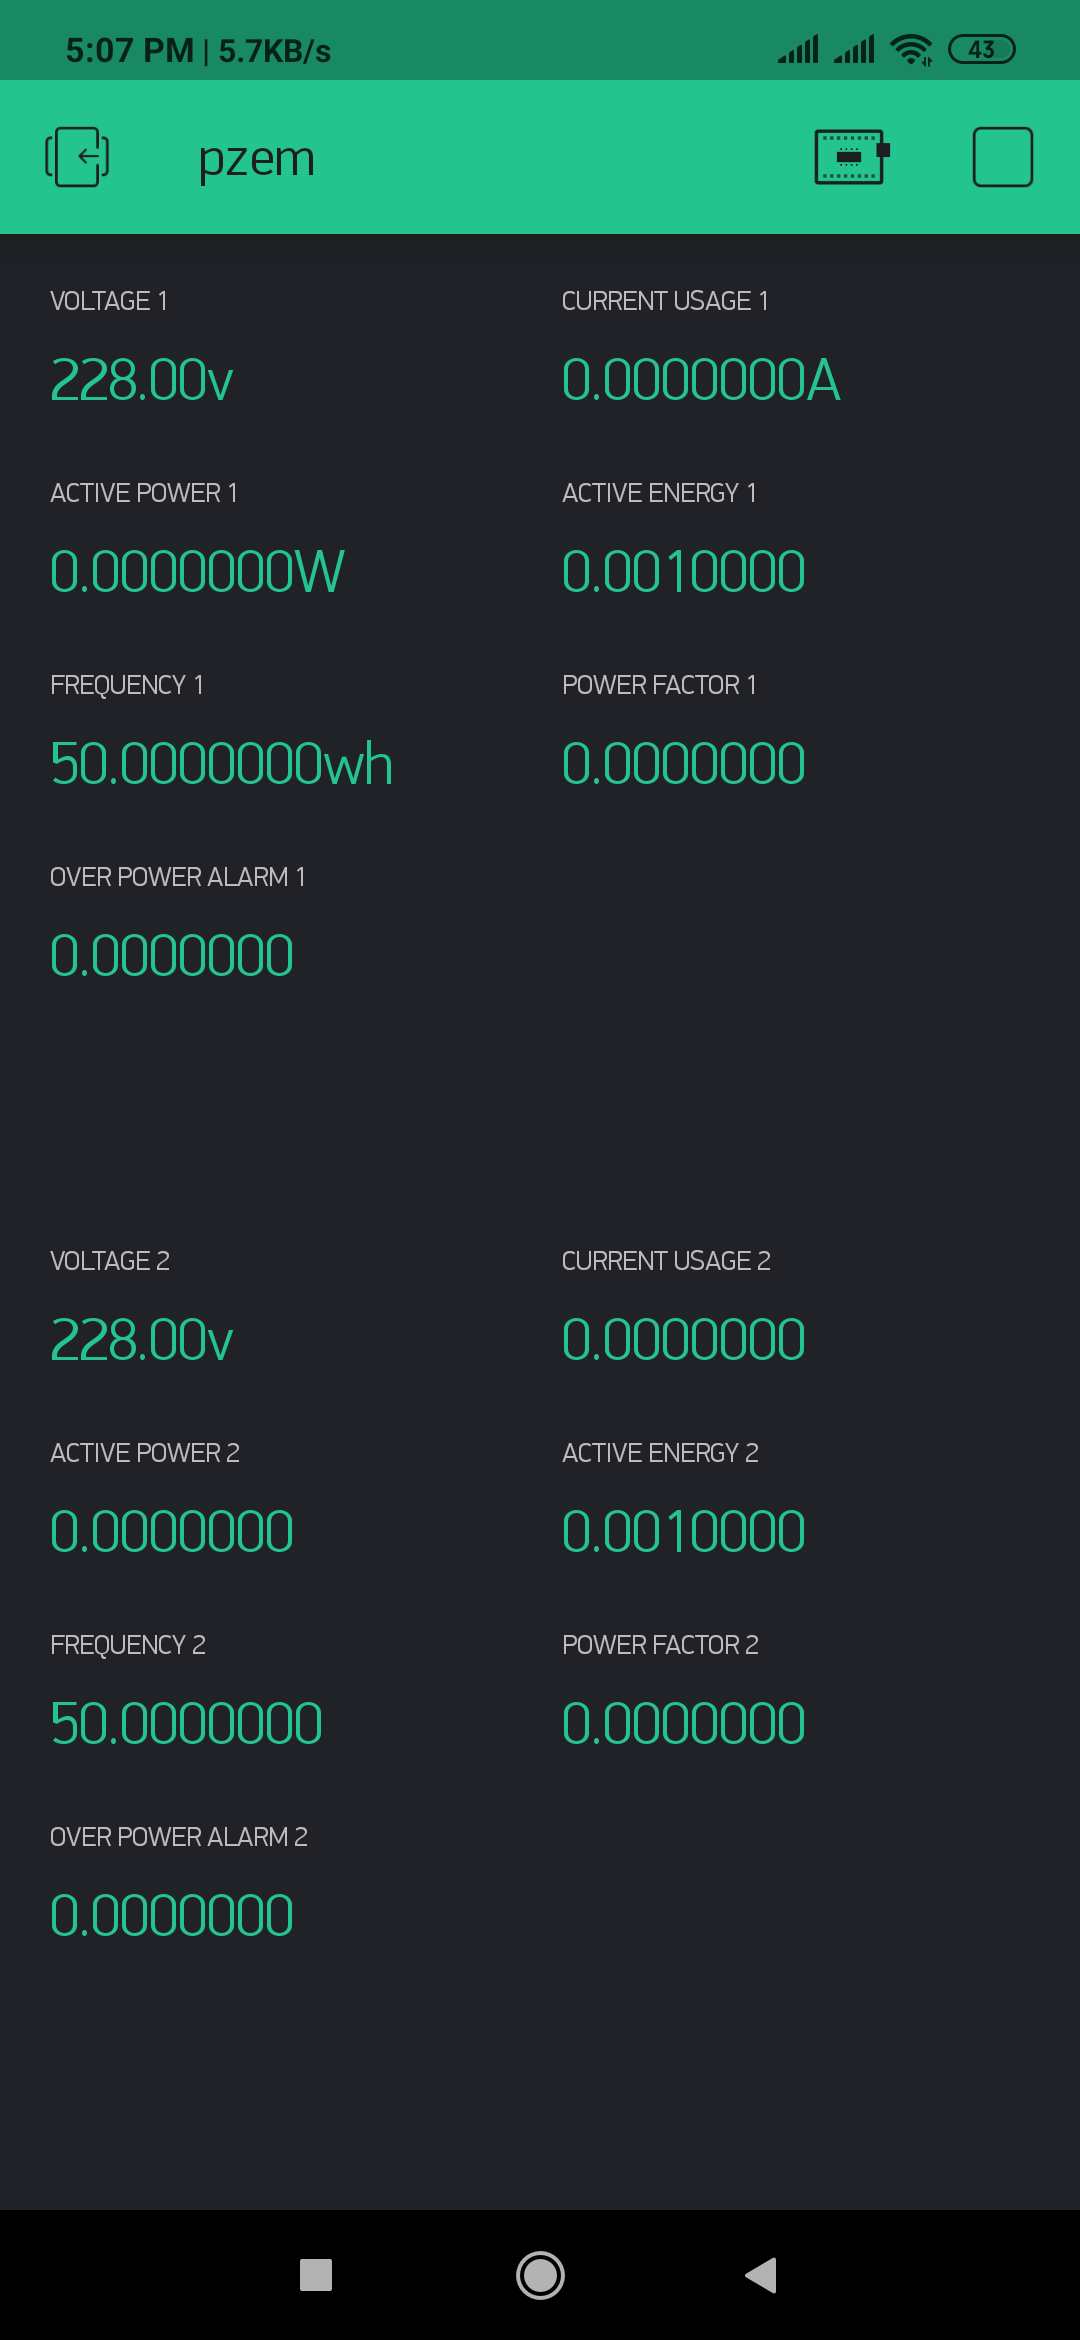
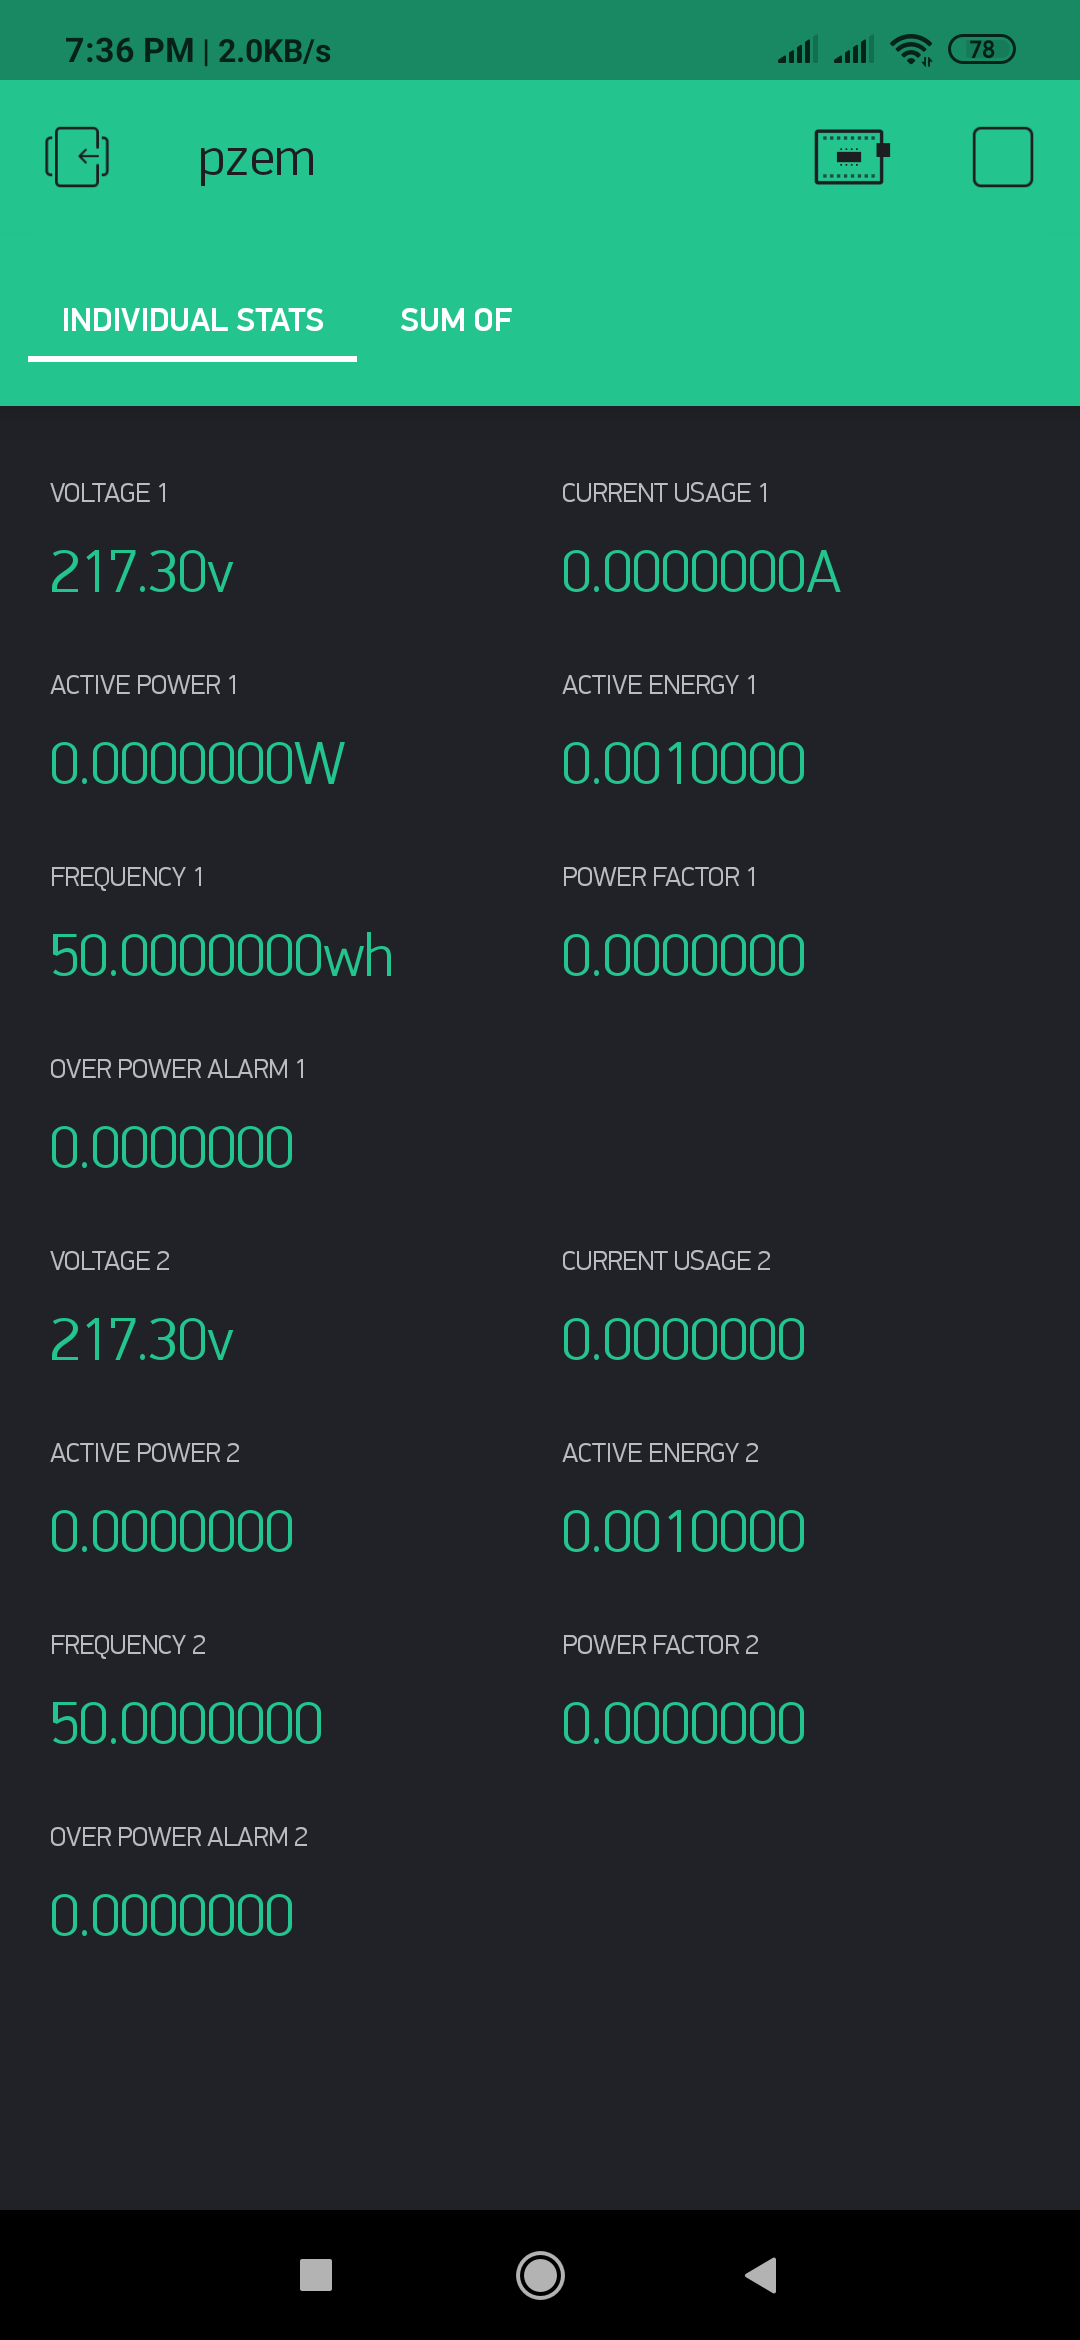
Implemented sum of all PZEM data, updated images & readme file
1) added function to show sum of all pzem data - voltage, current usage,
active power, active energy, frequency and power factor

diff --git a/Blynk-PZEM-004T-Phase-Failure-Automation/settings.h b/Blynk-PZEM-004T-Phase-Failure-Automation/settings.h
@@ -83,6 +83,13 @@
 #define vPIN_POWER_FACTOR_3           V36
 #define vPIN_OVER_POWER_ALARM_3       V37
 
+#define vPIN_SUM_VOLTAGE              V41
+#define vPIN_SUM_CURRENT_USAGE        V42
+#define vPIN_SUM_ACTIVE_POWER         V43
+#define vPIN_SUM_ACTIVE_ENERGY        V44
+#define vPIN_SUM_FREQUENCY            V45
+#define vPIN_SUM_POWER_FACTOR         V46
+
 /***************************************************
           Server Settings
  **************************************************/

diff --git a/README.md b/README.md
@@ -6,6 +6,7 @@ Blynk PZEM 004T 3 Phase failure motor automation.
 2) Monitors 3 PZEM 004T v3.0 device data with one ESP8266 device (multiple salve)</br> 
 3) Auto Mode ON/OFF - With Auto Mode ON, it turn ON Relay 1 and Relay 2 if it meets all 3 Phase voltage reaches minimum voltage value, if any those condition don't satisify it won't turn on</br> 
 4) If voltage is lessthan minimum set value for all 3 Phase, then it turn OFF Relay 1 and Relay 2</br>
+5) Show sum of voltage, current usage, active power, active energy, frequency and power factor</br>
 
 <h2>Requirements</h2>
 1) <a href ="http://s.click.aliexpress.com/e/ElytDjIu">3 PZEM-004T v3.0</a></br> 
@@ -61,6 +62,8 @@ GND to GND</br>
 <img src="/images/pzem-004t-3-phase-failure-automation-screenshot-1.png" alt="Blynk PZEM 004T 3 Phase Failure Automation Screenshot 1" title="Blynk PZEM 004T 3 Phase Failure Automation Screenshot 1" width="350" height="" style="max-width:100%;">
 
 <img src="/images/pzem-004t-3-phase-failure-automation-screenshot-2.png" alt="Blynk PZEM 004T 3 Phase Failure Automation Screenshot 2" title="Blynk PZEM 004T 3 Phase Failure Automation Screenshot 2" width="350" height="" style="max-width:100%;">
+
+<img src="/images/pzem-004t-3-phase-failure-automation-screenshot-3.png" alt="Blynk PZEM 004T 3 Phase Failure Automation Screenshot 3" title="Blynk PZEM 004T 3 Phase Failure Automation Screenshot 3" width="350" height="" style="max-width:100%;">
 
 <h2>Scan QR Code on Blynk App</h2>
 
